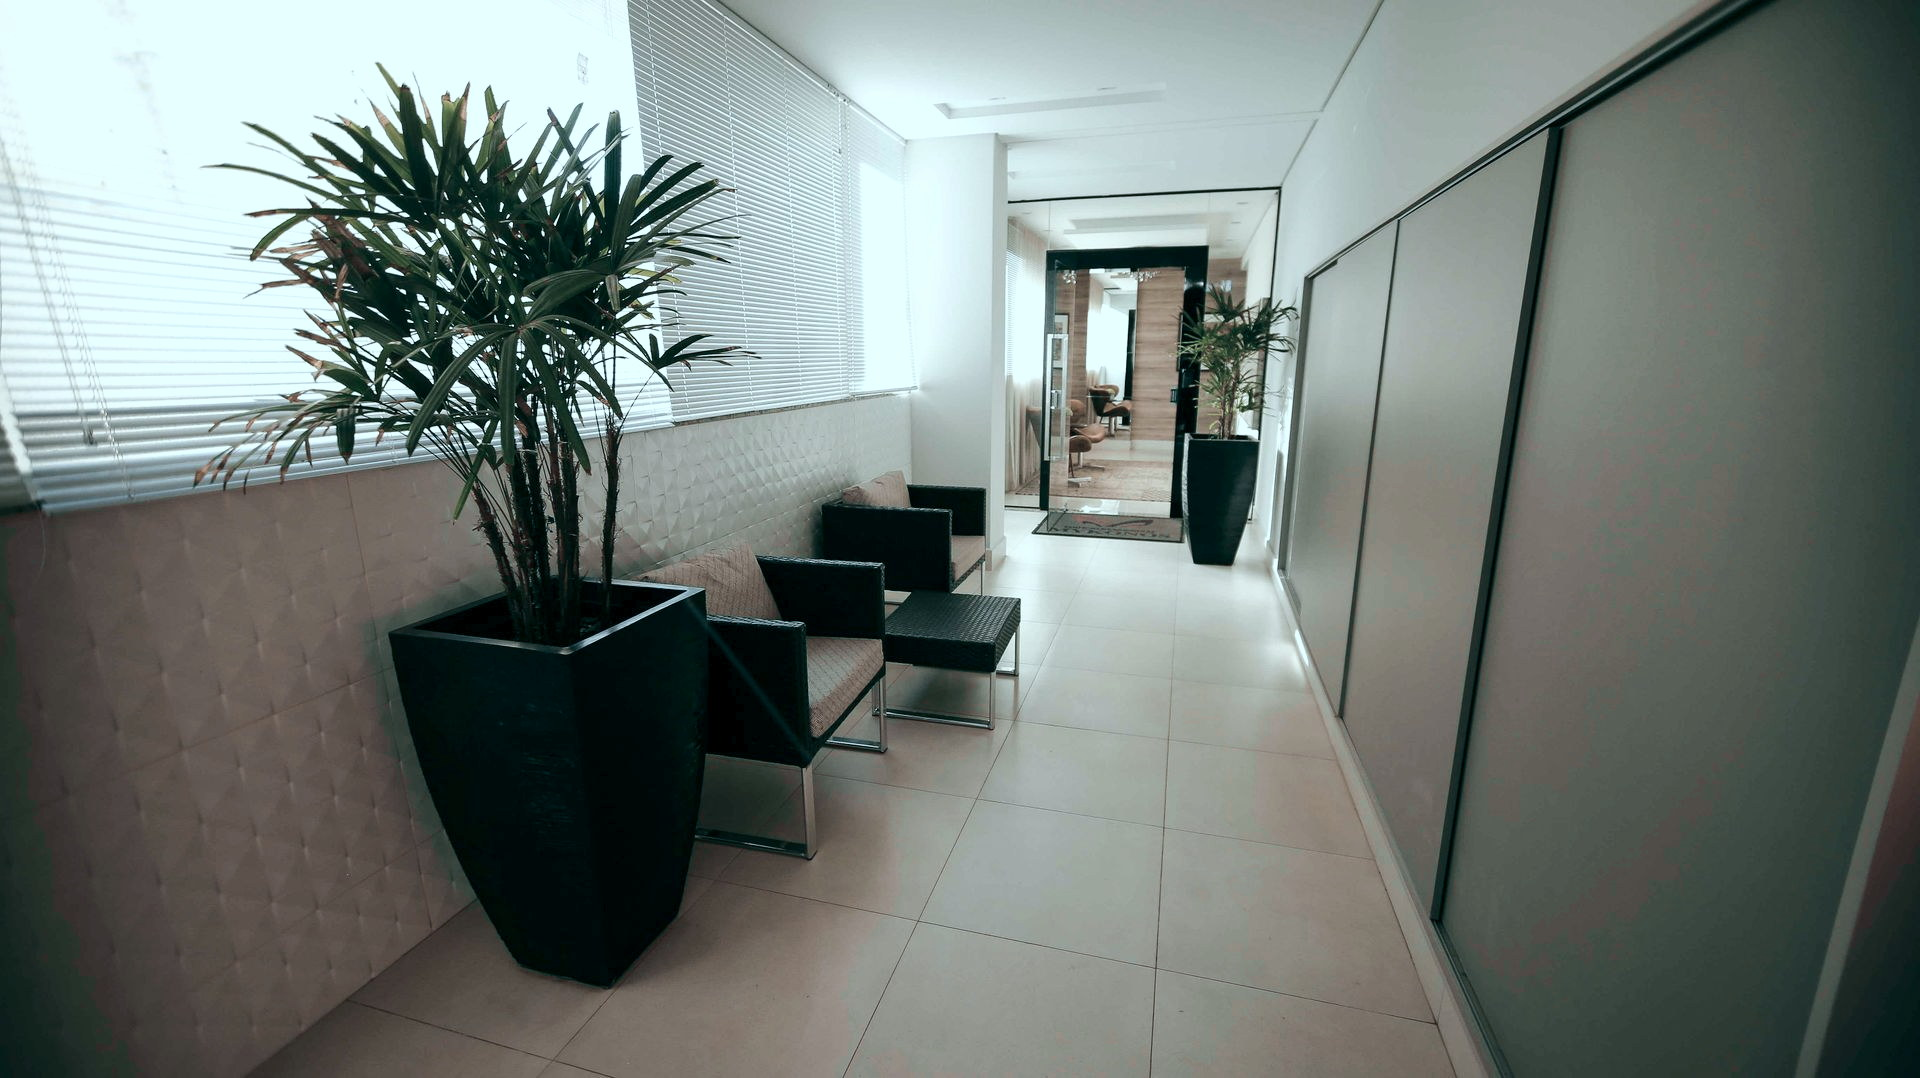
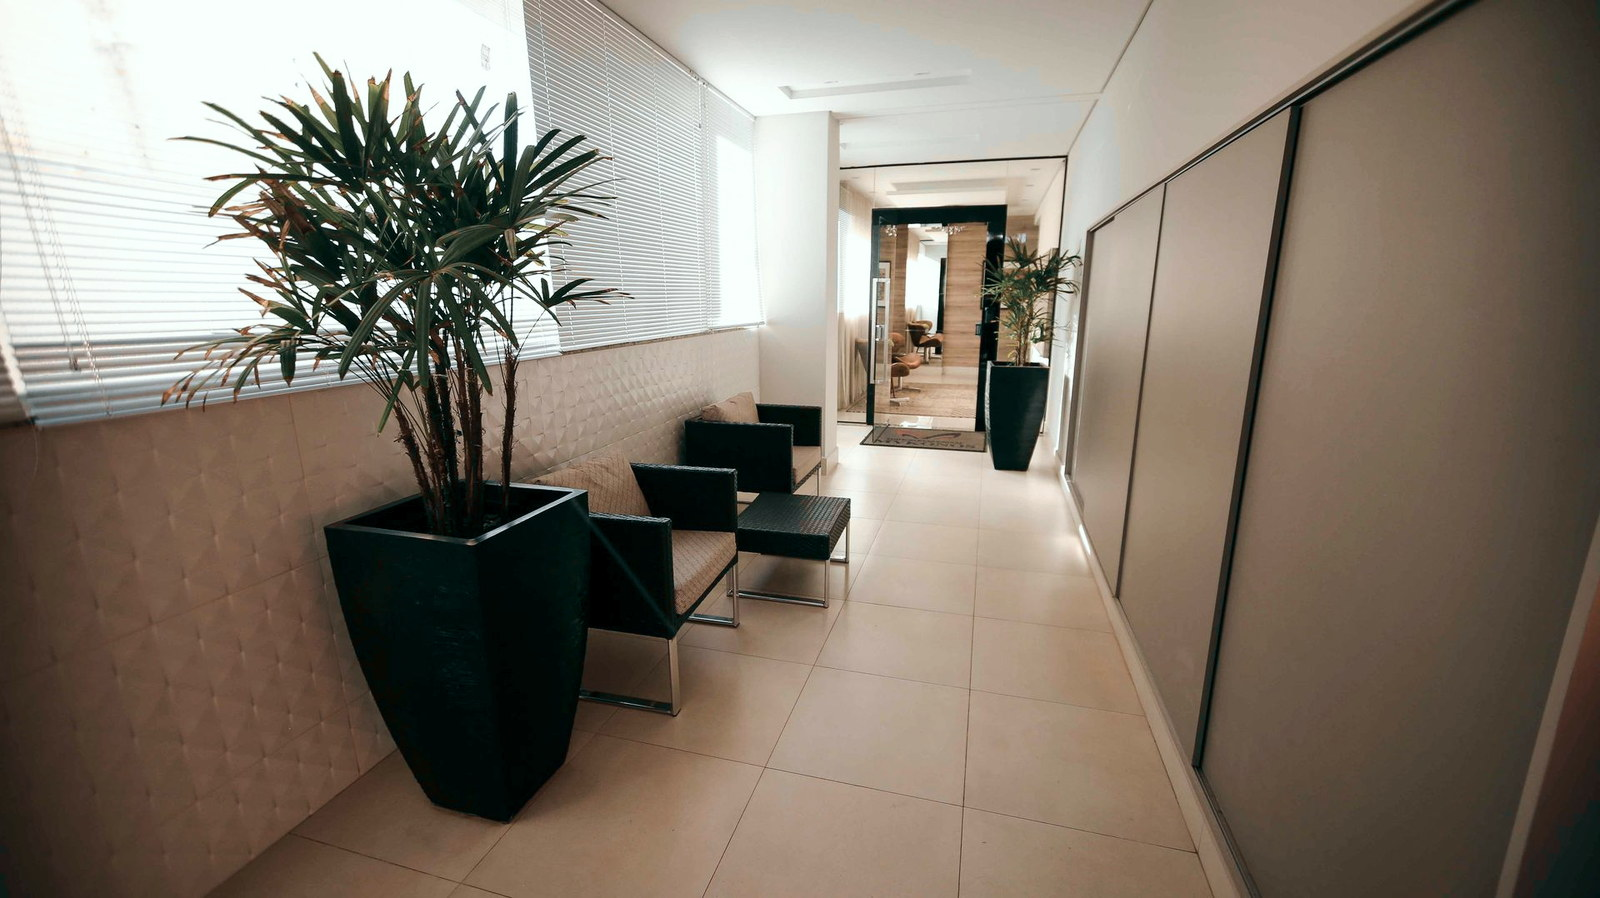
feat(resultados): as 8 fotos de antes e depois entram no site
As imagens geradas foram mapeadas para os quatro casos, passadas pela LUT e
o comparador ganhou sangria no celular.

PROTECAO DE PELE — o achado desta rodada. Graduadas pelo pipeline normal, as
oito fotos de rosto sairam CINZA-ESVERDEADAS, sem vida. Medido, o culpado nao
era a etapa de cor: era o BALANCO DE BRANCO.

  mascara de pele antes do gray-world : 87,3% dos pixels, croma 0,069
  mascara de pele depois do gray-world: 36,9% dos pixels, croma 0,021
  ganho aplicado                      : R x0,648  G x1,192  B x1,746

Gray-world parte da premissa de que a media da cena deveria dar cinza — o que
e razoavel para um corredor e desastroso para um close de rosto, onde a cena E
a pele quente. Ele removia exatamente o que faz pele parecer pele, e fazia isso
ANTES da mascara existir.

Correcoes: a mascara passou a ser medida na imagem ORIGINAL, e agora pesa
QUATRO etapas em vez de so o split toning — balanco de branco (media tirada so
dos pixels sem pele), dessaturacao, split e trim. E o que uma sala de cor faz:
grada a cena e protege o tom de pele, porque o olho perdoa parede fora de cor e
nao perdoa rosto doente.

MEDICAO POR GRUPO. Forcar retrato e ambiente ao mesmo ponto de cor era a causa
do problema, entao o medidor deixou de tratar as duas coisas como um conjunto
so. Ambiente fecha em 0,0198 (criterio 0,020).

VERIFICACAO NOVA, a mais dura das tres: cada par antes/depois contra si mesmo.
As duas metades ficam sobrepostas no comparador, e qualquer diferenca de
[…]

diff --git a/index.html b/index.html
@@ -429,11 +429,11 @@
             <div class="ba__stage" data-ba>
               <img class="ba__img" src="assets/img/caso-diastema-depois.jpg"
                    alt="Arcada com o espaço entre os incisivos centrais fechado"
-                   width="1200" height="900" loading="lazy" decoding="async">
+                   width="1600" height="1195" loading="lazy" decoding="async">
               <div class="ba__overlay">
                 <img class="ba__img" src="assets/img/caso-diastema-antes.jpg"
                      alt="A mesma arcada com espaço visível entre os incisivos centrais"
-                     width="1200" height="900" loading="lazy" decoding="async">
+                     width="1600" height="1195" loading="lazy" decoding="async">
               </div>
               <span class="ba__tag ba__tag--fisico" aria-hidden="true">Antes</span>
               <span class="ba__tag ba__tag--digital" aria-hidden="true">Depois</span>
@@ -457,11 +457,11 @@
             <div class="ba__stage" data-ba>
               <img class="ba__img" src="assets/img/caso-alinhamento-depois.jpg"
                    alt="Arcada inferior com os dentes anteriores alinhados"
-                   width="1200" height="900" loading="lazy" decoding="async">
+                   width="1600" height="1195" loading="lazy" decoding="async">
               <div class="ba__overlay">
                 <img class="ba__img" src="assets/img/caso-alinhamento-antes.jpg"
                      alt="A mesma arcada com apinhamento nos dentes anteriores"
-                     width="1200" height="900" loading="lazy" decoding="async">
+                     width="1600" height="1195" loading="lazy" decoding="async">
               </div>
               <span class="ba__tag ba__tag--fisico" aria-hidden="true">Antes</span>
               <span class="ba__tag ba__tag--digital" aria-hidden="true">Depois</span>
@@ -485,11 +485,11 @@
             <div class="ba__stage" data-ba>
               <img class="ba__img" src="assets/img/caso-lentes-depois.jpg"
                    alt="Dentes anteriores com bordas e proporção recompostas"
-                   width="1200" height="900" loading="lazy" decoding="async">
+                   width="1600" height="1195" loading="lazy" decoding="async">
               <div class="ba__overlay">
                 <img class="ba__img" src="assets/img/caso-lentes-antes.jpg"
                      alt="Os mesmos dentes com desgaste nas bordas e proporção irregular"
-                     width="1200" height="900" loading="lazy" decoding="async">
+                     width="1600" height="1195" loading="lazy" decoding="async">
               </div>
               <span class="ba__tag ba__tag--fisico" aria-hidden="true">Antes</span>
               <span class="ba__tag ba__tag--digital" aria-hidden="true">Depois</span>
@@ -513,11 +513,11 @@
             <div class="ba__stage" data-ba>
               <img class="ba__img" src="assets/img/caso-implante-depois.jpg"
                    alt="Espaço ocupado por coroa sobre implante"
-                   width="1200" height="900" loading="lazy" decoding="async">
+                   width="1600" height="1195" loading="lazy" decoding="async">
               <div class="ba__overlay">
                 <img class="ba__img" src="assets/img/caso-implante-antes.jpg"
                      alt="O mesmo espaço sem dente, entre dois dentes vizinhos"
-                     width="1200" height="900" loading="lazy" decoding="async">
+                     width="1600" height="1195" loading="lazy" decoding="async">
               </div>
               <span class="ba__tag ba__tag--fisico" aria-hidden="true">Antes</span>
               <span class="ba__tag ba__tag--digital" aria-hidden="true">Depois</span>

diff --git a/components/Results/results.html b/components/Results/results.html
@@ -36,11 +36,11 @@
           <div class="ba__stage" data-ba>
             <img class="ba__img" src="assets/img/caso-diastema-depois.jpg"
                  alt="Arcada com o espaço entre os incisivos centrais fechado"
-                 width="1200" height="900" loading="lazy" decoding="async">
+                 width="1600" height="1195" loading="lazy" decoding="async">
             <div class="ba__overlay">
               <img class="ba__img" src="assets/img/caso-diastema-antes.jpg"
                    alt="A mesma arcada com espaço visível entre os incisivos centrais"
-                   width="1200" height="900" loading="lazy" decoding="async">
+                   width="1600" height="1195" loading="lazy" decoding="async">
             </div>
             <span class="ba__tag ba__tag--fisico" aria-hidden="true">Antes</span>
             <span class="ba__tag ba__tag--digital" aria-hidden="true">Depois</span>
@@ -64,11 +64,11 @@
           <div class="ba__stage" data-ba>
             <img class="ba__img" src="assets/img/caso-alinhamento-depois.jpg"
                  alt="Arcada inferior com os dentes anteriores alinhados"
-                 width="1200" height="900" loading="lazy" decoding="async">
+                 width="1600" height="1195" loading="lazy" decoding="async">
             <div class="ba__overlay">
               <img class="ba__img" src="assets/img/caso-alinhamento-antes.jpg"
                    alt="A mesma arcada com apinhamento nos dentes anteriores"
-                   width="1200" height="900" loading="lazy" decoding="async">
+                   width="1600" height="1195" loading="lazy" decoding="async">
             </div>
             <span class="ba__tag ba__tag--fisico" aria-hidden="true">Antes</span>
             <span class="ba__tag ba__tag--digital" aria-hidden="true">Depois</span>
@@ -92,11 +92,11 @@
           <div class="ba__stage" data-ba>
             <img class="ba__img" src="assets/img/caso-lentes-depois.jpg"
                  alt="Dentes anteriores com bordas e proporção recompostas"
-                 width="1200" height="900" loading="lazy" decoding="async">
+                 width="1600" height="1195" loading="lazy" decoding="async">
             <div class="ba__overlay">
               <img class="ba__img" src="assets/img/caso-lentes-antes.jpg"
                    alt="Os mesmos dentes com desgaste nas bordas e proporção irregular"
-                   width="1200" height="900" loading="lazy" decoding="async">
+                   width="1600" height="1195" loading="lazy" decoding="async">
             </div>
             <span class="ba__tag ba__tag--fisico" aria-hidden="true">Antes</span>
             <span class="ba__tag ba__tag--digital" aria-hidden="true">Depois</span>
@@ -120,11 +120,11 @@
           <div class="ba__stage" data-ba>
             <img class="ba__img" src="assets/img/caso-implante-depois.jpg"
                  alt="Espaço ocupado por coroa sobre implante"
-                 width="1200" height="900" loading="lazy" decoding="async">
+                 width="1600" height="1195" loading="lazy" decoding="async">
             <div class="ba__overlay">
               <img class="ba__img" src="assets/img/caso-implante-antes.jpg"
                    alt="O mesmo espaço sem dente, entre dois dentes vizinhos"
-                   width="1200" height="900" loading="lazy" decoding="async">
+                   width="1600" height="1195" loading="lazy" decoding="async">
             </div>
             <span class="ba__tag ba__tag--fisico" aria-hidden="true">Antes</span>
             <span class="ba__tag ba__tag--digital" aria-hidden="true">Depois</span>

diff --git a/components/Results/results.css b/components/Results/results.css
@@ -87,6 +87,29 @@
 }
 
 /* --------------------------------------------------------------------------
+   Telas estreitas — o comparador em sangria
+
+   Medido a 393px: dentro do container, o comparador ficava com 330px de
+   largura e 248px de altura. Comparar duas versões do mesmo sorriso a esse
+   tamanho é difícil — a diferença entre os casos está em milímetros de dente.
+
+   A sangria devolve a largura da janela (393px, +19% de lado, +41% de área)
+   sem recortar nada: a proporção 4/3 é a mesma das imagens de origem. O texto
+   continua com o recuo do container, então só a imagem encosta nas bordas —
+   que é o que faz ela parecer maior do que a página.
+   -------------------------------------------------------------------------- */
+@media (max-width: 64rem) {
+  .caso__figura {
+    margin-inline: calc(var(--space-container) * -1);
+    border-radius: 0;   /* encostada na borda, canto arredondado lê como erro */
+  }
+
+  .caso__figura .ba__stage {
+    border-radius: 0;
+  }
+}
+
+/* --------------------------------------------------------------------------
    Ações e nota
    -------------------------------------------------------------------------- */
 .resultados__acoes {

diff --git a/tools/grade.py b/tools/grade.py
@@ -140,6 +140,19 @@ CORTE_GRAFICO = 0.48
 # parte que interessa e deixaria bancada sobrando embaixo.
 QUADRADO_ANCORA = 0.38
 
+# --------------------------------------------------------------------------
+# Teto de resolução na saída.
+#
+# As fotos de caso chegaram em 2400px e pesavam 5,6 MB no conjunto — mais que
+# o resto do site inteiro. O maior espaço em que qualquer uma delas aparece é
+# o comparador em tela larga, ~800px; 1600px cobre isso com folga em tela de
+# alta densidade (2x) e nada além disso é visto por ninguém.
+#
+# O original em raw/ continua no tamanho que veio: quem manda no arquivo
+# entregue é este número, e ele pode subir depois sem perda.
+# --------------------------------------------------------------------------
+LARGURA_MAX = 1600
+
 VERDE_MARCA = "#285C4D"
 
 
@@ -195,9 +208,36 @@ def graduar(img, leve=False):
     dessaturação e sem split toning. Ver GRAFICOS, acima."""
     lin = srgb_para_linear(img)
 
+    # Máscara de pele medida na imagem ORIGINAL, antes de qualquer correção.
+    # Tem que ser aqui: o balanço de branco abaixo já tira o calor da pele, e
+    # depois dele a detecção não acha mais o que procurava. Medido num close
+    # de rosto: a máscara pegava 87,3% dos pixels antes do balanço e só 36,9%
+    # depois, com o croma da pele caindo de 0,069 para 0,021.
+    lab0 = linear_para_oklab(lin)
+    matiz0 = np.degrees(np.arctan2(lab0[..., 2], lab0[..., 1])) % 360
+    croma0 = np.hypot(lab0[..., 1], lab0[..., 2])
+    eh_pele = ((matiz0 > 25) & (matiz0 < 85) & (croma0 > 0.02)).astype(np.float64)
+    fator_pele = 1.0 - eh_pele * PROTECAO_PELE
+
     # 1. Balanço de branco por gray-world, em luz linear (a média só faz
     #    sentido física aqui; feita em sRGB ela é enviesada pelo gama).
-    media = lin.reshape(-1, 3).mean(axis=0)
+    #
+    #    A média sai dos pixels SEM PELE. Gray-world parte da premissa de que a
+    #    cena inteira deveria dar cinza — o que é razoável para um corredor e
+    #    desastroso para um rosto, onde a cena É a pele quente. Medido, ele
+    #    aplicava R×0,648 e B×1,746 e devolvia um rosto cinza-esverdeado.
+    #    Medindo só o fundo, o balanço passa a corrigir a LUZ do ambiente, que
+    #    é o que ele deveria fazer, sem tratar a pessoa como desvio de cor.
+    peso_fundo = (1.0 - eh_pele)[..., None]
+    soma_fundo = peso_fundo.sum()
+    if soma_fundo > lin[..., 0].size * 0.08:   # há fundo suficiente para medir
+        media = (lin * peso_fundo).reshape(-1, 3).sum(axis=0) / soma_fundo
+    else:
+        # Quadro quase todo pele: não há referência neutra confiável, então o
+        # balanço recua em vez de inventar uma.
+        media = lin.reshape(-1, 3).mean(axis=0)
+        media = media + (media.mean() - media) * 0.7
+
     alvo = media.mean()
     ganho = np.where(media > 1e-6, alvo / media, 1.0)
     ganho = 1.0 + (ganho - 1.0) * FORCA_WB
@@ -223,9 +263,21 @@ def graduar(img, leve=False):
     suave = Ln * Ln * (3.0 - 2.0 * Ln)          # smoothstep = S natural
     L = Ln * (1.0 - FORCA_CURVA_S) + suave * FORCA_CURVA_S
 
-    # 3. Dessaturação.
-    a = lab[..., 1] * ESCALA_CROMA
-    b = lab[..., 2] * ESCALA_CROMA
+    # A máscara de pele (eh_pele / fator_pele) vem medida lá de cima, na imagem
+    # original. Ela pesa QUATRO etapas: balanço de branco, dessaturação, split
+    # toning e trim. Proteger só o split — como era antes — não bastava: as
+    # outras três continuavam puxando a pele para o verde da marca, e as fotos
+    # de rosto saíam cinza-esverdeadas.
+    #
+    # É o que uma sala de cor de verdade faz: grada a cena e protege o tom de
+    # pele, porque o olho perdoa uma parede fora de cor e não perdoa um rosto
+    # doente.
+
+    # 3. Dessaturação, atenuada onde há pele: a cena inteira perde croma, o
+    #    rosto conserva quase todo o dele.
+    escala = ESCALA_CROMA + (1.0 - ESCALA_CROMA) * eh_pele * PROTECAO_PELE
+    a = lab[..., 1] * escala
+    b = lab[..., 2] * escala
 
     # 4. Split toning. Peso quadrático: concentra o verde nas sombras em vez
     #    de espalhar por toda a imagem.
@@ -236,13 +288,7 @@ def graduar(img, leve=False):
     peso_sombra = (1.0 - np.clip(L, 0.0, 1.0)) ** 2
     peso_luz = np.clip(L, 0.0, 1.0) ** 2
 
-    # 5. Proteção de pele: matiz aproximada de pele em OKLab fica em torno de
-    #    40°-70°, com croma presente. Onde isso acontece, o split recua.
-    matiz = np.degrees(np.arctan2(b, a)) % 360
-    croma = np.hypot(a, b)
-    eh_pele = ((matiz > 25) & (matiz < 85) & (croma > 0.02)).astype(np.float64)
-    fator_pele = 1.0 - eh_pele * PROTECAO_PELE
-
+    # 5. O split toning recua sobre pele, usando a mesma máscara medida acima.
     a = a + dir_verde[0] * FORCA_SPLIT * peso_sombra * fator_pele
     b = b + dir_verde[1] * FORCA_SPLIT * peso_sombra * fator_pele
 
@@ -269,10 +315,26 @@ def graduar(img, leve=False):
     # A 0.85 e nao 1.0 de proposito: forcar a media exata apagaria diferencas
     # legitimas de conteudo (uma foto cheia de planta TEM mais verde que um
     # teto branco, e deve ter).
+    #
+    # O erro medido a partir dos pixels SEM pele. Num retrato de rosto inteiro
+    # a pele domina o quadro, então incluí-la na média faria o trim tentar
+    # "corrigir" o tom de pele para verde — e o resto da cena junto. Medindo só
+    # o fundo, o alvo passa a ser o ambiente, que é o que precisa casar com as
+    # outras fotos do site.
     alvo_a = dir_verde[0] * VIES_COMUM
     alvo_b = dir_verde[1] * VIES_COMUM
-    a = a + (alvo_a - a.mean()) * FORCA_TRIM
-    b = b + (alvo_b - b.mean()) * FORCA_TRIM
+
+    peso_fundo = 1.0 - eh_pele
+    total_fundo = peso_fundo.sum()
+    if total_fundo > a.size * 0.05:      # há fundo suficiente para medir
+        media_a = (a * peso_fundo).sum() / total_fundo
+        media_b = (b * peso_fundo).sum() / total_fundo
+    else:                                 # quadro quase todo pele: usa tudo
+        media_a, media_b = a.mean(), b.mean()
+
+    # E o deslocamento também recua sobre a pele.
+    a = a + (alvo_a - media_a) * FORCA_TRIM * fator_pele
+    b = b + (alvo_b - media_b) * FORCA_TRIM * fator_pele
 
     saida = np.stack([L, a, b], axis=-1)
     return linear_para_srgb(oklab_para_linear(saida))
@@ -288,6 +350,16 @@ def medir(caminho):
     arr = np.asarray(im, dtype=np.float64) / 255.0
     lab = linear_para_oklab(srgb_para_linear(arr))
     return lab[..., 0].mean() * 100, lab[..., 1].mean(), lab[..., 2].mean()
+
+
+def fracao_pele(caminho):
+    """Quanto do quadro é pele. Separa retrato de fotografia de ambiente."""
+    im = Image.open(caminho).convert("RGB").resize((80, 80))
+    arr = np.asarray(im, dtype=np.float64) / 255.0
+    lab = linear_para_oklab(srgb_para_linear(arr))
+    matiz = np.degrees(np.arctan2(lab[..., 2], lab[..., 1])) % 360
+    croma = np.hypot(lab[..., 1], lab[..., 2])
+    return float(((matiz > 25) & (matiz < 85) & (croma > 0.02)).mean())
 
 
 def main():
@@ -321,6 +393,12 @@ def main():
                 lado = im.width
                 topo = int((im.height - lado) * QUADRADO_ANCORA)
                 im = im.crop((0, topo, lado, topo + lado))
+
+            if max(im.size) > LARGURA_MAX:
+                escala = LARGURA_MAX / max(im.size)
+                novo = (round(im.width * escala), round(im.height * escala))
+                im = im.resize(novo, Image.LANCZOS)
+
             arr = np.asarray(im, dtype=np.float64) / 255.0
             out = np.clip(graduar(arr, leve=eh_gr), 0.0, 1.0)
             saida = Image.fromarray((out * 255.0 + 0.5).astype(np.uint8))
@@ -331,21 +409,66 @@ def main():
                            progressive=True, subsampling=1)
 
         Ld, ad, bd = medir(destino) if destino.exists() else (La, aa, ba)
-        antes.append((aa, ba))
-        depois.append((ad, bd))
+        # Retrato ou ambiente? A pele legitimamente vive noutro ponto do eixo
+        # de cor, e forçá-la ao mesmo ponto das paredes foi o que produziu os
+        # rostos cinzas. Os dois grupos são medidos separadamente.
+        retrato = fracao_pele(destino if destino.exists() else origem) > 0.35
+        antes.append((aa, ba, retrato))
+        depois.append((ad, bd, retrato))
         print(f"{origem.name:22}{La:8.1f}{aa:9.3f}{ba:9.3f}"
-              f"{Ld:8.1f}{ad:9.3f}{bd:9.3f}")
+              f"{Ld:8.1f}{ad:9.3f}{bd:9.3f}  {'retrato' if retrato else ''}")
 
     def dispersao(pontos):
+        if len(pontos) < 2:
+            return 0.0
         return max(np.hypot(p[0] - q[0], p[1] - q[1])
                    for p in pontos for q in pontos)
 
-    da, dd = dispersao(antes), dispersao(depois)
+    def so(pontos, eh_retrato):
+        return [(a, b) for a, b, r in pontos if r == eh_retrato]
+
     print("-" * 76)
-    print(f"maior diferenca de dominante entre duas imagens (OKLab a/b):")
-    print(f"   antes : {da:.4f}")
-    print(f"   depois: {dd:.4f}   ({'OK' if dd < 0.020 else 'AINDA ALTA'})")
-    print(f"   reducao: {(1 - dd / da) * 100:.0f}%")
+    print("maior diferenca de dominante entre duas imagens (OKLab a/b)")
+    print("medida por grupo: pele e ambiente nao devem cair no mesmo ponto.\n")
+
+    for rotulo, flag in (("ambiente", False), ("retratos", True)):
+        da = dispersao(so(antes, flag))
+        dd = dispersao(so(depois, flag))
+        n = len(so(depois, flag))
+        if n < 2:
+            print(f"  {rotulo:9} ({n} imagem) — nada a comparar")
+            continue
+        veredito = "OK" if dd < 0.020 else "AINDA ALTA"
+        reducao = f"  reducao {(1 - dd / da) * 100:3.0f}%" if da > 0 else ""
+        print(f"  {rotulo:9} ({n:2} imagens)  antes {da:.4f}  ->  "
+              f"depois {dd:.4f}  ({veredito}){reducao}")
+
+    # ---- O par antes/depois consigo mesmo -------------------------------
+    # Esta é a verificação mais dura das três, e a única cujo defeito o
+    # usuário veria na hora: as duas metades de um comparador ficam uma sobre
+    # a outra, e qualquer diferença de dominante entre elas aparece como um
+    # salto de cor no instante em que o divisor passa. Entre imagens de seções
+    # diferentes uma folga passa despercebida; aqui, não.
+    print()
+    print("cada par antes/depois consigo mesmo (o divisor os sobrepõe):")
+    piores = 0
+    for origem in arquivos:
+        if not origem.name.endswith("-antes.jpg"):
+            continue
+        par = origem.with_name(origem.name.replace("-antes.jpg", "-depois.jpg"))
+        da_, db_ = DESTINO / origem.name, DESTINO / par.name
+        if not (da_.exists() and db_.exists()):
+            continue
+        _, a1, b1 = medir(da_)
+        _, a2, b2 = medir(db_)
+        d = np.hypot(a1 - a2, b1 - b2)
+        ok = d < 0.004
+        if not ok:
+            piores += 1
+        rotulo = origem.name.replace("caso-", "").replace("-antes.jpg", "")
+        print(f"  {rotulo:14} {d:.4f}  {'ok' if ok else 'SALTO DE COR VISIVEL'}")
+    if piores:
+        print(f"\n  {piores} par(es) com diferenca perceptivel entre as metades.")
     return 0
 
 
